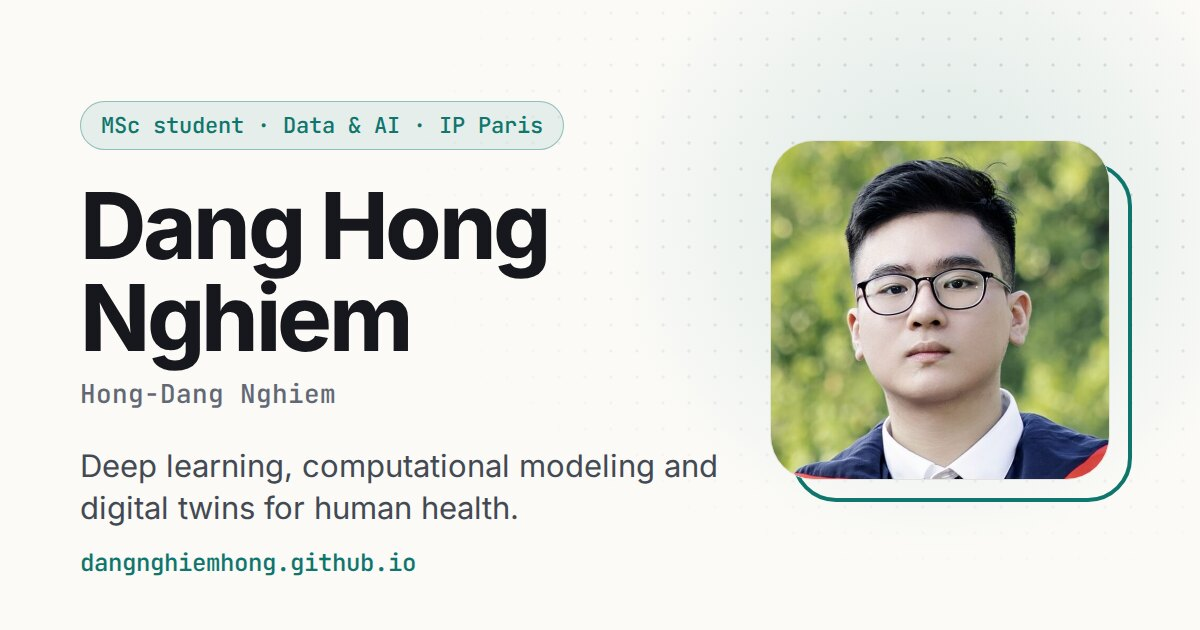
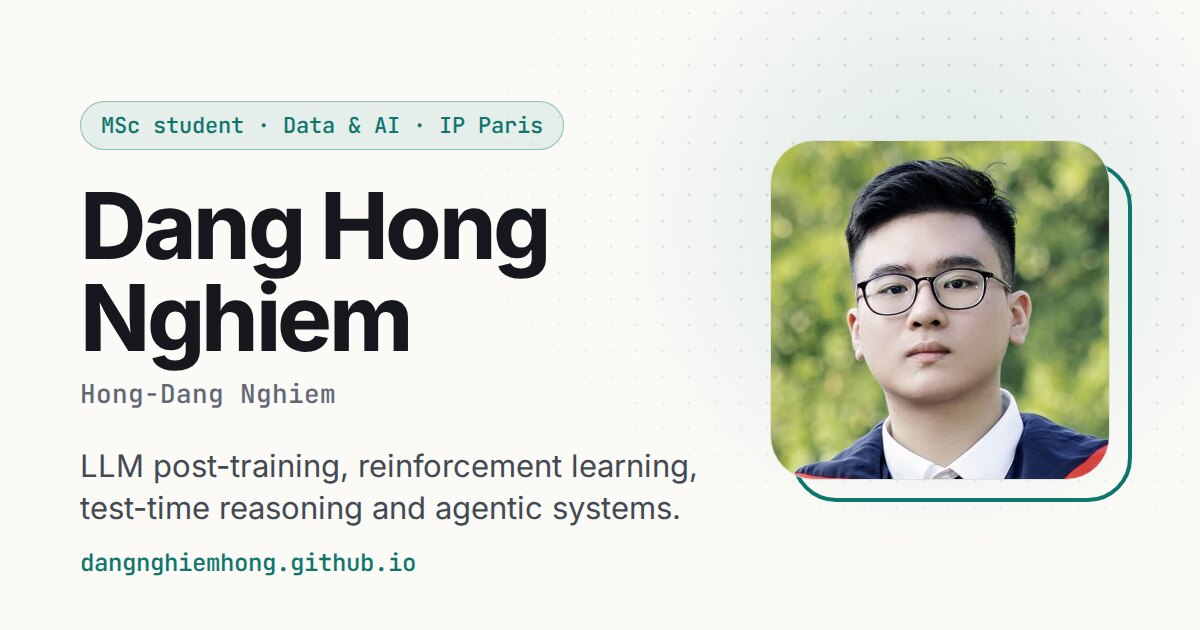
Update profile from the CV; add Research and Experience tabs
- Positioning is now LLM post-training (RL, test-time reasoning, agentic
  systems); bio, research-interest cards, site description and the social
  card follow the CV
- New tabs: Research (always in the menu, empty by request and marked
  noindex until the first entry; /publications/ redirects here) and
  Experience (full roles, education, honours)
- Experience: PASSIO Lab (Aug 2025 - Sep 2026), New Turing Institute, NAVIS
  Center, AI Vietnam; education with the IP Paris master and HUST degree
- Home: compact background timeline, new Toolbox section, LinkedIn link,
  balanced interest cards
- CV page: headline, city, skills, honours, talk
- Left out on purpose: papers and conference abstracts, phone number,
  selectivity statistics, rankings and scholarship amounts
- Fixes found in testing: CV skills list overflowed at 320px; the menu now
  wraps instead of clipping items when a fifth entry is added

Claude-Session: https://claude.ai/code/session_018xyPnEZDsnNCDzKMKz4BVY

Changed region(s): [[0.0617, 0.7238, 0.6167, 0.8444]]

diff --git a/assets/css/main.css b/assets/css/main.css
@@ -309,9 +309,8 @@ a:hover { text-decoration: underline; text-underline-offset: 0.2em; }
 @media (max-width: 26rem) { .nav a { padding: 0.5rem 0.55rem; font-size: 0.9rem; } }
 @media (max-width: 40rem) {
   .header-inner { flex-wrap: wrap; row-gap: 0; padding-block: 0.5rem 0.25rem; }
-  .nav { order: 3; width: 100%; overflow-x: auto; scrollbar-width: none; margin-top: 0.25rem; }
-  .nav::-webkit-scrollbar { display: none; }
-  .nav ul { width: max-content; }
+  .nav { order: 3; width: 100%; margin-top: 0.25rem; }
+  .nav ul { flex-wrap: wrap; }
 }
 
 .site-footer { margin-top: 4rem; border-top: 1px solid var(--line); padding-block: 2.25rem 2rem; }
@@ -404,7 +403,17 @@ a.tag:hover, .tag-btn:hover { border-color: var(--accent-line); color: var(--acc
 }
 .card:hover { border-color: var(--accent-line); box-shadow: var(--shadow); }
 .grid { display: grid; gap: 1rem; list-style: none; margin: 0; padding: 0; }
-.interests { grid-template-columns: repeat(auto-fit, minmax(min(15rem, 100%), 1fr)); }
+.interests { grid-template-columns: repeat(6, minmax(0, 1fr)); }
+.interests .interest { grid-column: span 2; }
+/* last row with 2 cards → each spans half; with 1 card → spans the row */
+.interests .interest:nth-last-child(2):nth-child(3n + 1), .interests .interest:last-child:nth-child(3n + 2) { grid-column: span 3; }
+.interests .interest:last-child:nth-child(3n + 1) { grid-column: span 6; }
+@media (max-width: 56rem) {
+  .interests { grid-template-columns: repeat(2, minmax(0, 1fr)); }
+  .interests .interest, .interests .interest:nth-last-child(2):nth-child(3n + 1), .interests .interest:last-child:nth-child(3n + 2), .interests .interest:last-child:nth-child(3n + 1) { grid-column: auto; }
+  .interests .interest:last-child:nth-child(odd) { grid-column: span 2; }
+}
+@media (max-width: 36rem) { .interests { grid-template-columns: minmax(0, 1fr); } .interests .interest:last-child:nth-child(odd) { grid-column: auto; } }
 .projects { grid-template-columns: repeat(auto-fill, minmax(min(19rem, 100%), 1fr)); }
 
 /* ═══════════════════════════════════════════════════════════════════════════
@@ -582,9 +591,35 @@ a.tag:hover, .tag-btn:hover { border-color: var(--accent-line); color: var(--acc
 }
 .cv-list { margin: 0; padding-left: 1.1rem; color: var(--ink-2); }
 .cv-list li + li { margin-top: 0.45rem; }
+.cv-headline { margin: 0 0 0.5rem; color: var(--ink-2); font-size: 1.1rem; }
+.cv-meta { display: flex; align-items: center; gap: 0.4rem; margin: 0 0 1.25rem; color: var(--ink-3); font-size: 0.95rem; }
+.experience .cv-section:first-child { margin-top: 0; }
+.honors { display: grid; list-style: none; margin: 0; padding: 0; }
+.honors li { display: grid; grid-template-columns: 4.5rem minmax(0, 1fr); gap: 1rem; padding: 0.9rem 0; border-bottom: 1px solid var(--line); }
+.honors li:first-child { padding-top: 0; }
+.honors li:last-child { border-bottom: 0; }
+.honors-year { padding-top: 0.15rem; color: var(--ink-3); font: 500 0.85rem var(--font-mono); }
+.honors p { margin: 0; }
+.honors-title { font-weight: 650; line-height: 1.35; }
+.honors-by { color: var(--ink-2); font-size: 0.95rem; }
+.honors-text { margin-top: 0.15rem !important; color: var(--ink-3); font-size: 0.92rem; }
+.toolbox { margin: 0; }
+.toolbox-row { display: grid; grid-template-columns: 11.5rem minmax(0, 1fr); gap: 0.35rem 1.5rem; padding: 0.95rem 0; border-bottom: 1px solid var(--line); }
+.toolbox-row:first-child { padding-top: 0; }
+.toolbox-row:last-child { border-bottom: 0; }
+.toolbox dt { color: var(--ink-3); font: 600 0.78rem var(--font-mono); text-transform: uppercase; letter-spacing: 0.08em; padding-top: 0.3rem; }
+.toolbox dd { margin: 0; }
+.toolbox .tags { margin: 0; }
+@media (max-width: 40rem) { .toolbox-row { grid-template-columns: minmax(0, 1fr); } .honors li { grid-template-columns: 3.6rem minmax(0, 1fr); gap: 0.6rem; } }
 .skills { display: grid; grid-template-columns: max-content minmax(0, 1fr); gap: 0.45rem 1.5rem; margin: 0; }
 .skills dt { font-weight: 650; }
 .skills dd { margin: 0; color: var(--ink-2); }
+@media (max-width: 40rem) {
+  .skills { grid-template-columns: minmax(0, 1fr); gap: 0; }
+  .skills dt { margin-top: 0.9rem; }
+  .skills dt:first-child { margin-top: 0; }
+  .skills dd { margin-top: 0.15rem; }
+}
 
 .empty-note { margin: 2rem 0; color: var(--ink-3); }
 .notfound { padding-block: clamp(3rem, 12vw, 8rem); }

diff --git a/index.html b/index.html
@@ -1,6 +1,6 @@
 ---
 layout: default
-description: Master's student in Data & AI at Institut Polytechnique de Paris. Deep learning, computational modeling and data-driven digital twins for human health.
+description: Master's student in Data & AI at Institut Polytechnique de Paris. LLM post-training, reinforcement learning, test-time reasoning and agentic systems.
 ---
 {%- assign profile = site.data.profile -%}
 <section class="hero">
@@ -83,7 +83,7 @@ description: Master's student in Data & AI at Institut Polytechnique de Paris. D
   <div class="wrap">
     <div class="section-head">
       <h2 class="section-title" id="h-pubs">Selected publications</h2>
-      <a class="section-more" href="{{ '/publications/' | relative_url }}">All publications {% include icon.html name="arrow-right" %}</a>
+      <a class="section-more" href="{{ '/research/' | relative_url }}">All publications {% include icon.html name="arrow-right" %}</a>
     </div>
     <div class="pubs">
       {%- for pub in featured_pubs limit: 4 %}{% include publication.html pub=pub %}{% endfor %}
@@ -97,22 +97,41 @@ description: Master's student in Data & AI at Institut Polytechnique de Paris. D
   <div class="wrap">
     <div class="section-head">
       <h2 class="section-title" id="h-background">Background</h2>
-      <a class="section-more" href="{{ '/cv/' | relative_url }}">Full CV {% include icon.html name="arrow-right" %}</a>
+      <a class="section-more" href="{{ '/experience/' | relative_url }}">Full experience {% include icon.html name="arrow-right" %}</a>
     </div>
     <div class="two-col">
       {%- if site.data.education.size > 0 %}
       <div>
         <h3 class="col-title">{% include icon.html name="graduation-cap" %}Education</h3>
-        {% include timeline.html items=site.data.education kind="education" %}
+        {% include timeline.html items=site.data.education kind="education" compact=true %}
       </div>
       {%- endif %}
       {%- if site.data.experience.size > 0 %}
       <div>
         <h3 class="col-title">{% include icon.html name="briefcase" %}Experience</h3>
-        {% include timeline.html items=site.data.experience kind="experience" %}
+        {% include timeline.html items=site.data.experience kind="experience" compact=true %}
       </div>
       {%- endif %}
     </div>
+  </div>
+</section>
+{%- endif %}
+
+{%- if site.data.skills.size > 0 %}
+<section class="section" aria-labelledby="h-toolbox">
+  <div class="wrap">
+    <div class="section-head">
+      <h2 class="section-title" id="h-toolbox">Toolbox</h2>
+      <a class="section-more" href="{{ '/cv/' | relative_url }}">Full CV {% include icon.html name="arrow-right" %}</a>
+    </div>
+    <dl class="toolbox">
+      {%- for s in site.data.skills %}{% unless s.hide_on_home %}
+      <div class="toolbox-row">
+        <dt>{{ s.group }}</dt>
+        <dd><ul class="tags">{% for i in s.items %}<li><span class="tag">{{ i }}</span></li>{% endfor %}</ul></dd>
+      </div>
+      {%- endunless %}{% endfor %}
+    </dl>
   </div>
 </section>
 {%- endif %}

diff --git a/cv/index.html b/cv/index.html
@@ -1,13 +1,15 @@
 ---
 layout: page
 title: Curriculum Vitae
-subtitle: Education, experience and selected work.
-description: "Curriculum vitae of Dang Hong Nghiem: education, experience, publications, skills and awards."
+subtitle: Education, research experience, skills and honours.
+description: "Curriculum vitae of Dang Hong Nghiem: education, research experience, skills, honours and talks."
 permalink: /cv/
 ---
 {%- assign profile = site.data.profile -%}
 {%- assign cv_pdf = site.static_files | where: "path", "/assets/files/cv.pdf" -%}
 <div class="cv">
+  {%- if profile.headline != blank %}<p class="cv-headline">{{ profile.headline }}</p>{% endif %}
+  {%- if profile.location != blank %}<p class="cv-meta">{% include icon.html name="map-pin" %}{{ profile.location }}</p>{% endif %}
   <div class="cv-actions">
     {%- if cv_pdf.size > 0 %}<a class="btn btn-primary" href="{{ '/assets/files/cv.pdf' | relative_url }}">{% include icon.html name="download" %}Download PDF</a>{% endif %}
     {% include reveal-email.html id="cv" label="Show email" class="btn" %}
@@ -45,7 +47,7 @@ permalink: /cv/
   {%- endif %}
 
   {%- if site.data.awards.size > 0 %}
-  <section class="cv-section"><h2 class="cv-h">Awards</h2>
+  <section class="cv-section"><h2 class="cv-h">Honors &amp; scholarships</h2>
     <ul class="cv-list">
       {%- for a in site.data.awards %}<li><strong>{{ a.title }}</strong>{% if a.by %}, {{ a.by }}{% endif %}{% if a.year %} ({{ a.year }}){% endif %}{% if a.text %}. {{ a.text }}{% endif %}</li>{% endfor %}
     </ul>

diff --git a/experience/index.html b/experience/index.html
@@ -1,0 +1,31 @@
+---
+layout: page
+title: Experience
+subtitle: Research positions, education and honours.
+description: "Research experience, education and honours of Dang Hong Nghiem: LLM post-training, ECG foundation models and GNSS spoofing detection."
+permalink: /experience/
+---
+<div class="cv experience">
+  {%- if site.data.experience.size > 0 %}
+  <section class="cv-section"><h2 class="cv-h">Research experience</h2>{% include timeline.html items=site.data.experience kind="experience" %}</section>
+  {%- endif %}
+  {%- if site.data.education.size > 0 %}
+  <section class="cv-section"><h2 class="cv-h">Education</h2>{% include timeline.html items=site.data.education kind="education" %}</section>
+  {%- endif %}
+  {%- if site.data.awards.size > 0 %}
+  <section class="cv-section"><h2 class="cv-h">Honors &amp; scholarships</h2>
+    <ul class="honors">
+      {%- for a in site.data.awards %}
+      <li>
+        <span class="honors-year">{{ a.year }}</span>
+        <div>
+          <p class="honors-title">{{ a.title | escape }}</p>
+          {%- if a.by %}<p class="honors-by">{{ a.by | escape }}</p>{% endif %}
+          {%- if a.text %}<p class="honors-text">{{ a.text | escape }}</p>{% endif %}
+        </div>
+      </li>
+      {%- endfor %}
+    </ul>
+  </section>
+  {%- endif %}
+</div>

diff --git a/_includes/timeline.html b/_includes/timeline.html
@@ -1,6 +1,7 @@
 {%- comment -%}
   Vertical timeline for education or experience.
   Usage: {% include timeline.html items=site.data.education kind="education" %}
+         add compact=true to hide the note, description and bullet points (home page).
 {%- endcomment -%}
 <ol class="timeline">
   {%- for it in include.items %}
@@ -18,12 +19,14 @@
     <p class="timeline-sub">{% if it.degree_url %}<a href="{{ it.degree_url }}">{{ it.degree | escape }}</a>{% else %}{{ it.degree | escape }}{% endif %}{% if it.location %} · {{ it.location | escape }}{% endif %}</p>
     {%- else %}
     <p class="timeline-sub">{{ it.role | escape }}{% if it.location %} · {{ it.location | escape }}{% endif %}</p>
+    {%- endif %}
+    {%- unless include.compact %}
     {%- if it.detail %}<p class="timeline-note">{{ it.detail | escape }}</p>{% endif %}
     {%- if it.description %}<div class="timeline-desc">{{ it.description | markdownify }}</div>{% endif %}
-    {%- endif %}
     {%- if it.details.size > 0 %}
     <ul class="timeline-list">{% for d in it.details %}<li>{{ d | markdownify | remove: '<p>' | remove: '</p>' }}</li>{% endfor %}</ul>
     {%- endif %}
+    {%- endunless %}
   </li>
   {%- endfor %}
 </ol>

diff --git a/research/index.html b/research/index.html
@@ -1,0 +1,28 @@
+---
+layout: page
+title: Research
+subtitle: Publications, preprints and theses.
+description: Research and publications of Dang Hong Nghiem.
+permalink: /research/
+redirect_from:
+  - /publications/
+sitemap: false
+needs: publications
+---
+{%- comment -%}
+  Entries come from _data/publications.yml. This tab is always in the menu (owner's choice), so while
+  the list is empty the page says so and carries `noindex` (see head.html), so search engines skip it.
+{%- endcomment -%}
+{%- if site.data.publications.size > 0 %}
+{%- assign by_year = site.data.publications | group_by: "year" %}
+{%- for g in by_year %}
+<section class="year-group">
+  <h2 class="year">{{ g.name }}</h2>
+  <div class="pubs">
+    {%- for pub in g.items %}{% include publication.html pub=pub %}{% endfor %}
+  </div>
+</section>
+{%- endfor %}
+{%- else %}
+<p class="empty-note">Publications and research write-ups will be listed here.</p>
+{%- endif %}

diff --git a/README.md b/README.md
@@ -11,10 +11,12 @@ Live at <https://dangnghiemhong.github.io>. Built with Jekyll and served by GitH
 | You want to change… | Edit this |
 |---|---|
 | Name, bio, photo, contact emails, profile links, research-interest cards | [`_data/profile.yml`](_data/profile.yml) |
-| Education / experience | [`_data/education.yml`](_data/education.yml), [`_data/experience.yml`](_data/experience.yml) |
-| Publications (page + home section appear on first entry) | [`_data/publications.yml`](_data/publications.yml) |
+| Education, experience (home page, `/experience/`, CV) | [`_data/education.yml`](_data/education.yml), [`_data/experience.yml`](_data/experience.yml) |
+| Honours & scholarships (`/experience/`, CV) | [`_data/awards.yml`](_data/awards.yml) |
+| Skills (home "Toolbox" + CV; `hide_on_home: true` keeps a group on the CV only) | [`_data/skills.yml`](_data/skills.yml) |
+| Research tab / publications (the tab is always in the menu; entries appear as you add them) | [`_data/publications.yml`](_data/publications.yml) |
 | News items on the home page | [`_data/news.yml`](_data/news.yml) |
-| CV extras: skills, awards, talks | [`_data/skills.yml`](_data/skills.yml), [`awards.yml`](_data/awards.yml), [`talks.yml`](_data/talks.yml) |
+| Talks (CV) | [`_data/talks.yml`](_data/talks.yml) |
 | Blog posts | `_posts/` (template: [`_templates/post.md`](_templates/post.md)) |
 | Projects | `_projects/` (template: [`_templates/project.md`](_templates/project.md)) |
 | Menu items | [`_data/navigation.yml`](_data/navigation.yml) |
@@ -22,9 +24,12 @@ Live at <https://dangnghiemhong.github.io>. Built with Jekyll and served by GitH
 | Colours, fonts, spacing | tokens at the top of [`assets/css/main.css`](assets/css/main.css) |
 | Site title, URL, plugins | [`_config.yml`](_config.yml) |
 
-**Sections hide themselves when empty.** The *Publications* and *Projects* menu items, and the News /
-Projects / Publications blocks on the home page, appear automatically the moment you add the first entry.
-There are no "coming soon" placeholders by design.
+**Sections hide themselves when empty.** The *Projects* menu item, and the News / Projects / Publications
+blocks on the home page, appear automatically the moment you add the first entry. The one deliberate exception
+is the **Research** tab: it is always in the menu, and until `_data/publications.yml` has its first entry the page
+says that publications will be listed there and carries `noindex` so search engines skip it. Once you add an entry the
+list appears and `noindex` disappears by itself (remove `sitemap: false` from `research/index.html` if you want the page
+in the sitemap).
 
 ## Everyday tasks (all doable in GitHub's web editor)
 

diff --git a/docs/PRINCIPLES.md b/docs/PRINCIPLES.md
@@ -37,7 +37,7 @@ with a README is signal. Skill bars and self-rated percentages are meaningless a
 ### R3. Honest completeness
 No "coming soon", no empty sections, no placeholder text, no dead links. A section appears when
 it has content and is invisible otherwise. An empty section reads as abandonment.
-*Test:* the build renders no section with zero entries; `htmlproofer` (see the README) reports no broken internal links before you publish. There is no CI, so this is a manual step.
+*Test:* the build renders no section with zero entries (one deliberate exception, the always-visible Research tab, is `noindex` while empty); `htmlproofer` (see the README) reports no broken internal links before you publish. There is no CI, so this is a manual step.
 
 ### R4. Fast and light
 Static pages, no framework runtime, no third-party requests (fonts, scripts and icons are
